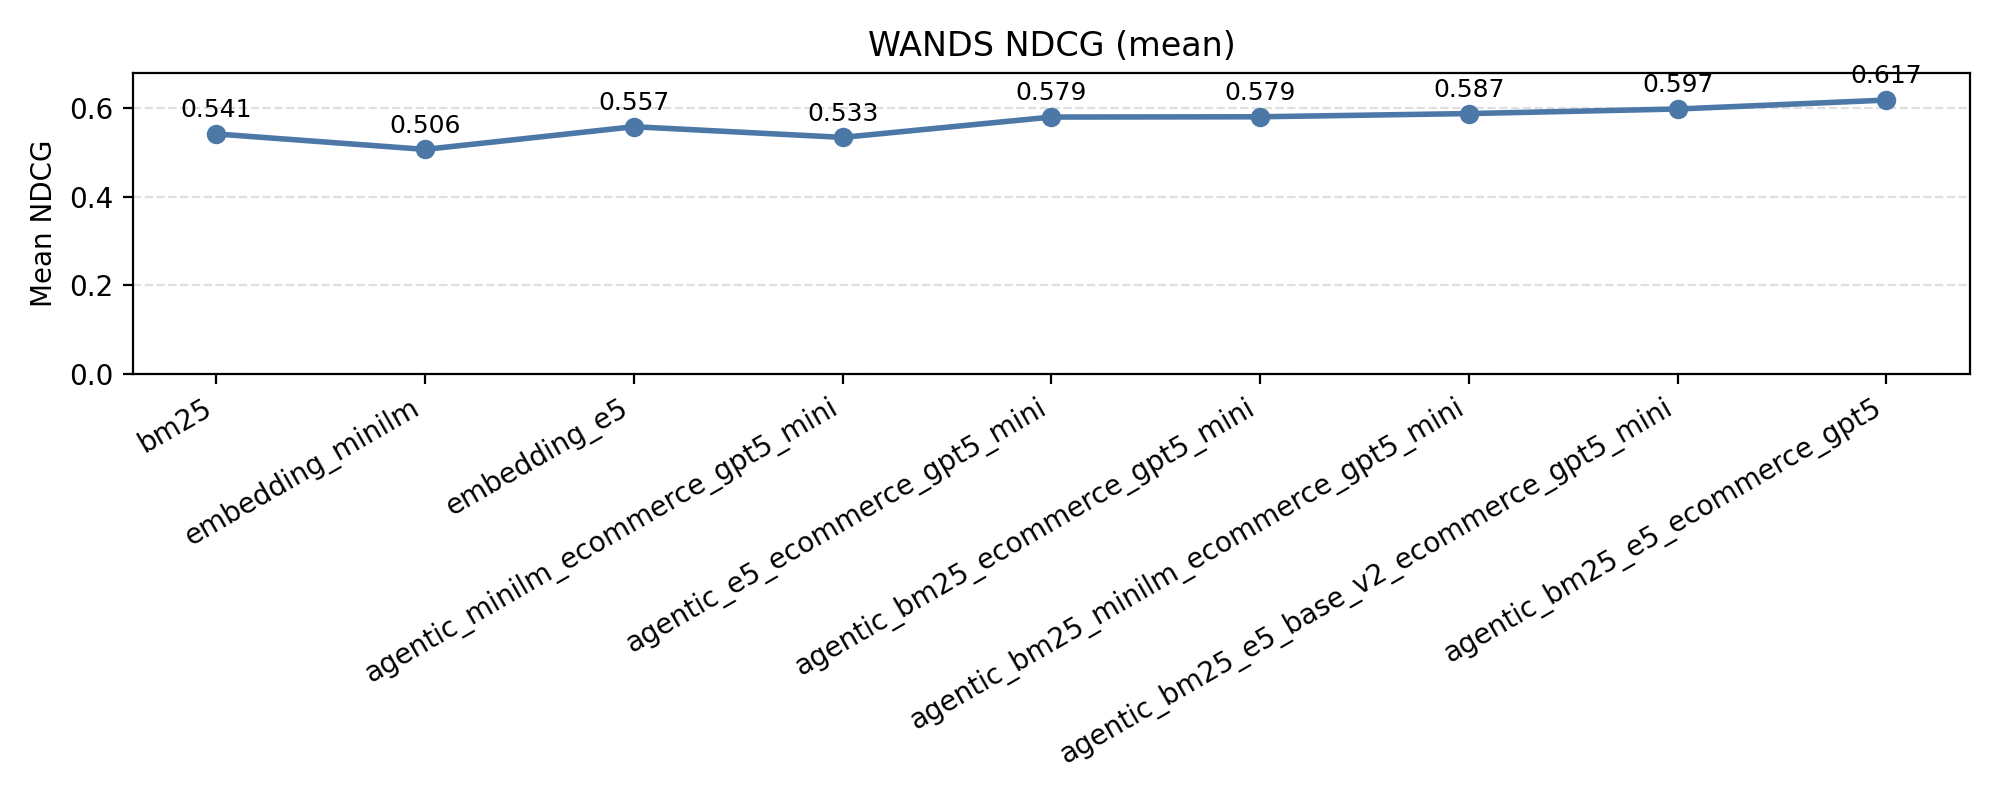
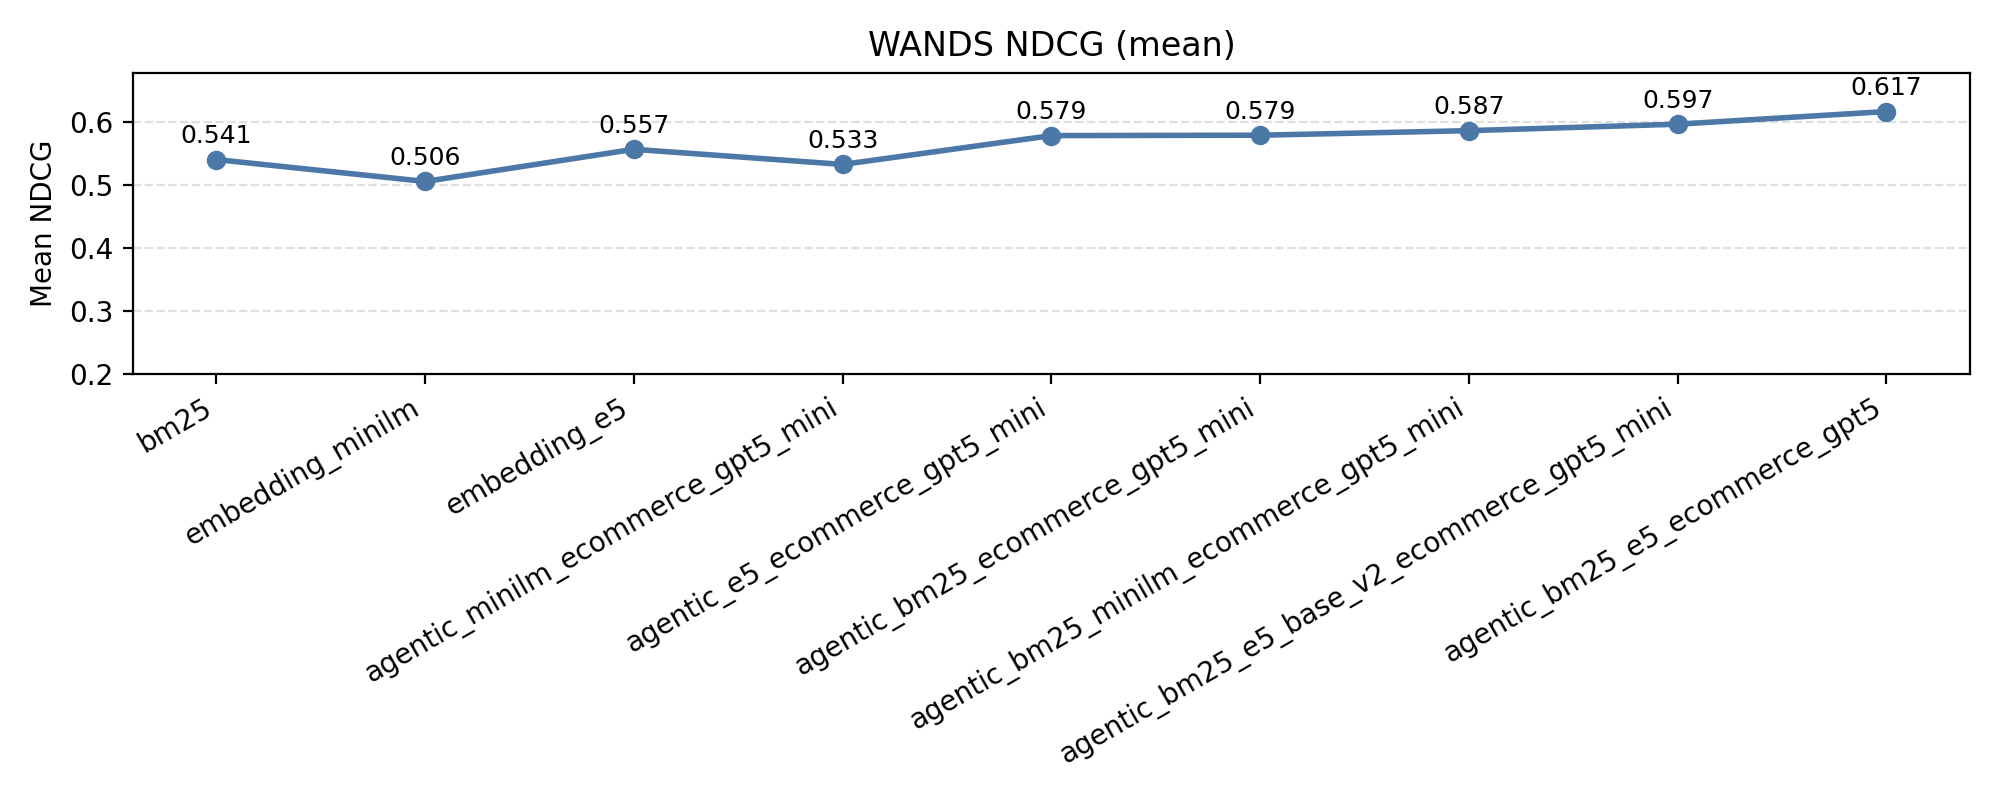
Adjust NDCG plot axes
Set WANDS y-axis minimum and update ESCI title with N count.

Changed region(s): [[0.031, 0.0625, 0.961, 0.25], [0.031, 0.3438, 0.062, 0.4062], [0.031, 0.2812, 0.062, 0.3125]]

diff --git a/scripts/plot_results.py b/scripts/plot_results.py
@@ -60,11 +60,15 @@ def _plot_dataset(rows: list[dict[str, str]], dataset: str, output_path: Path) -
             ha="center",
             fontsize=9,
         )
-    ax.set_title(f"{dataset.upper()} NDCG (mean)")
+    if dataset == "esci":
+        ax.set_title("ESCI - NDCG Mean (N=1000)")
+    else:
+        ax.set_title(f"{dataset.upper()} NDCG (mean)")
     ax.set_ylabel("Mean NDCG")
     ax.set_xticks(range(len(strategies)))
     ax.set_xticklabels(strategies, rotation=30, ha="right")
-    ax.set_ylim(0, max(means) * 1.1 if means else 1)
+    y_min = 0.2 if dataset == "wands" else 0
+    ax.set_ylim(y_min, max(means) * 1.1 if means else 1)
     ax.grid(axis="y", linestyle="--", alpha=0.4)
     fig.tight_layout()
     fig.savefig(output_path, dpi=200)
